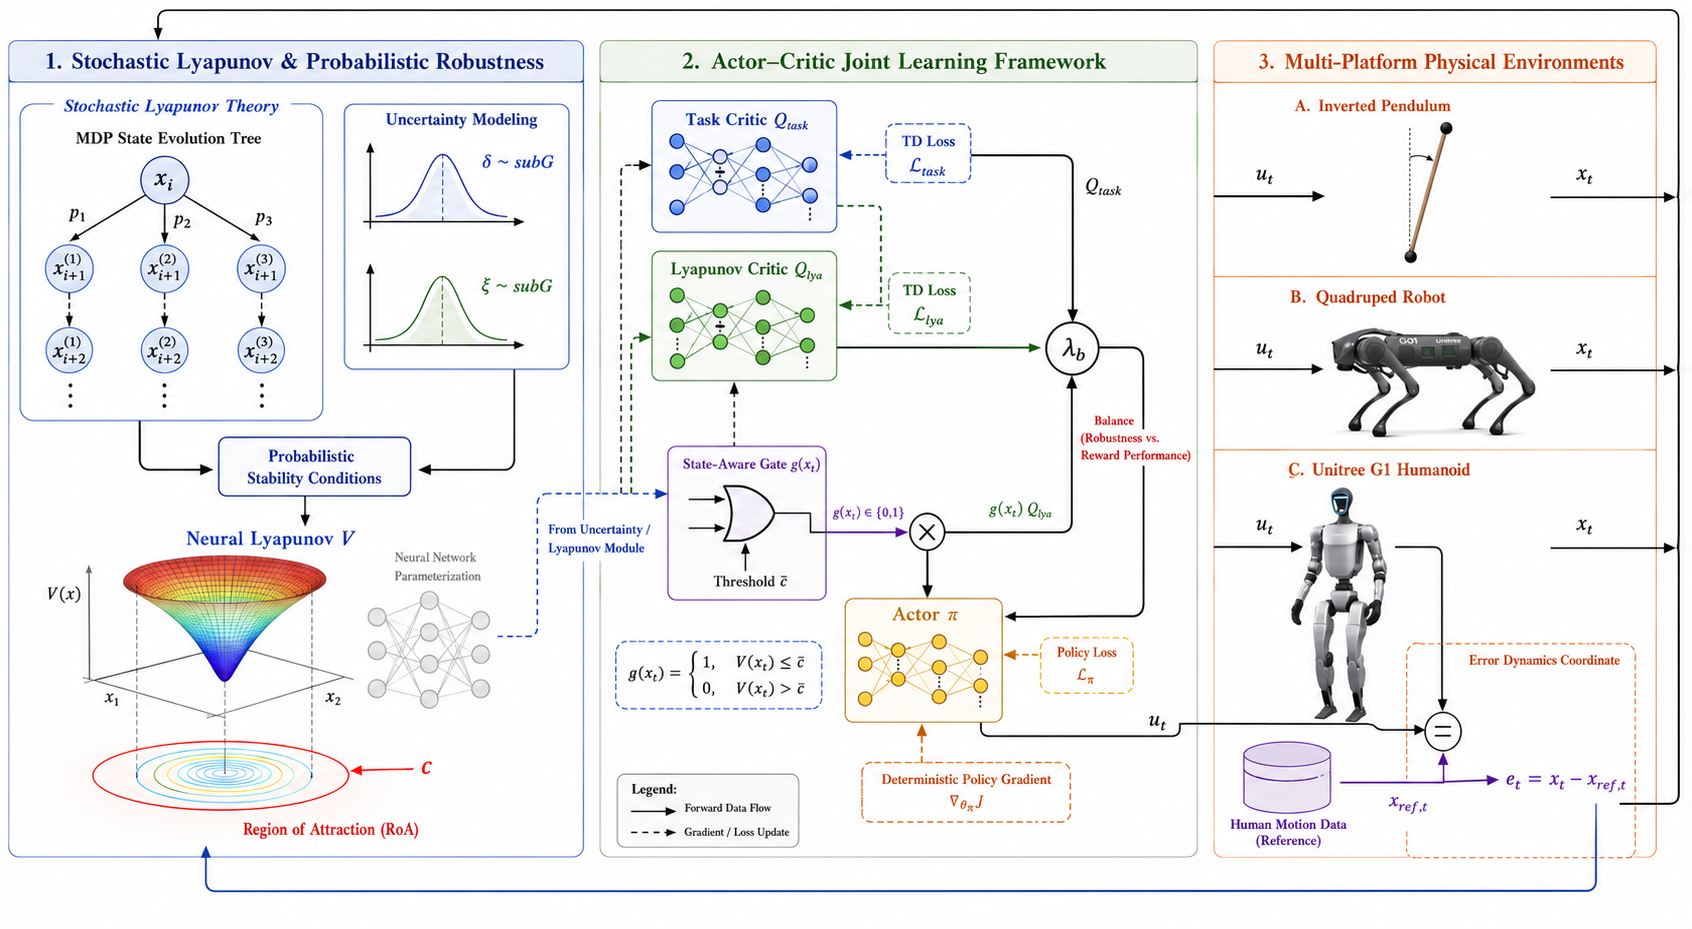
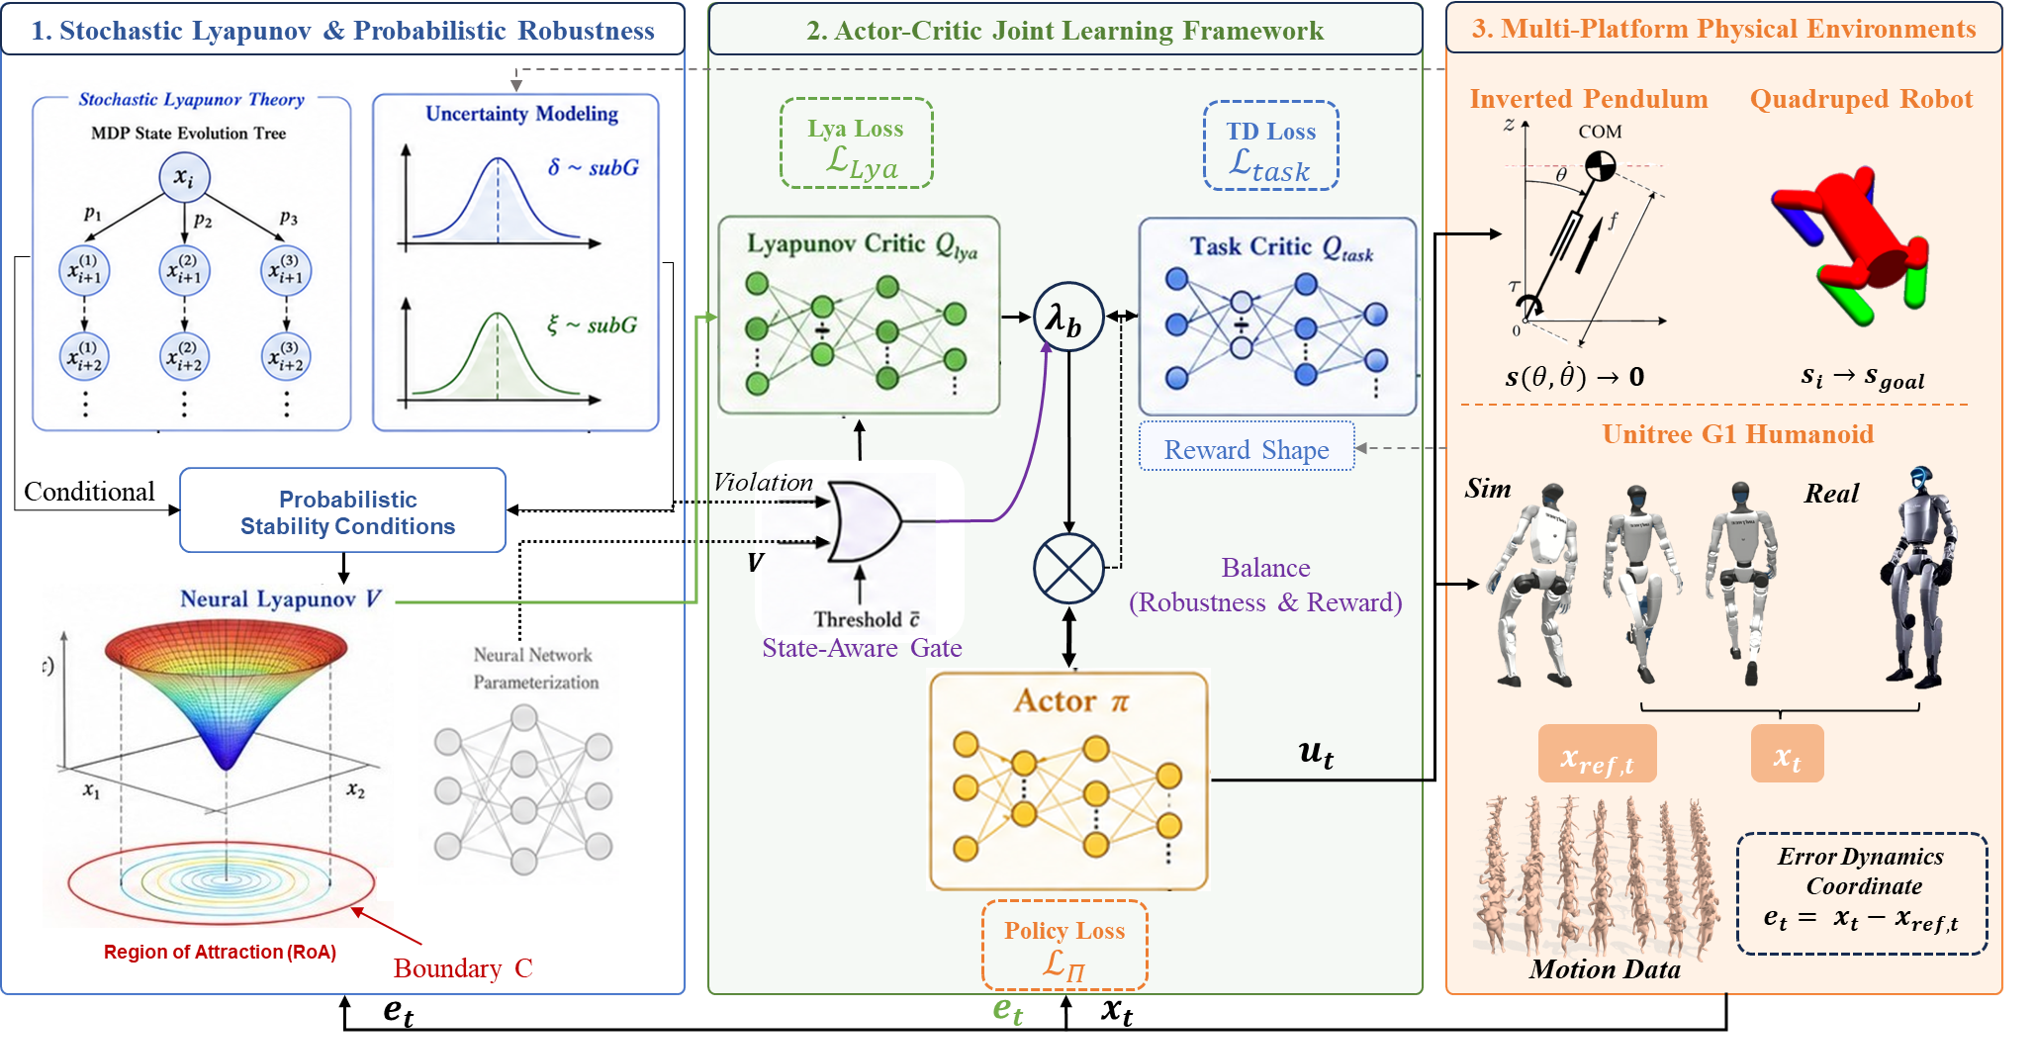
Update project page method section and framework figure.

Changed region(s): [[0.0, 0.0, 1.0, 0.9989]]

diff --git a/docs/index.html b/docs/index.html
@@ -66,21 +66,23 @@
 
     <section id="method">
       <h2>Method</h2>
-      <p>
-        The proposed pipeline jointly trains a task-oriented policy and a neural Lyapunov certificate
-        (Twin Control Lyapunov Function, TCLF) inside an Actor&ndash;Critic RL loop.
-        A <strong>state-aware gating mechanism</strong> balances task rewards and Lyapunov robustness penalties,
-        enlarging the certified region of attraction while preserving locomotion tracking performance.
-      </p>
-      <ul>
-        <li>Probabilistic stability conditions under sub-Gaussian uncertainty modeling</li>
-        <li>Joint optimization of policy, value critic, and Lyapunov / Lyapunov-Q networks</li>
-        <li>Quantitative robustness estimation for unseen disturbance intensities without retraining</li>
-        <li>Validated from low-dimensional pendulum to high-dimensional bipedal locomotion (sim + hardware)</li>
-      </ul>
+      <div class="notice">
+        <p>
+          The proposed pipeline jointly trains a task-oriented policy and a neural Lyapunov certificate
+          (Twin Control Lyapunov Function, TCLF) inside an Actor&ndash;Critic RL loop.
+          A <strong>state-aware gating mechanism</strong> balances task rewards and Lyapunov robustness penalties,
+          enlarging the certified region of attraction while preserving locomotion tracking performance.
+        </p>
+        <ul>
+          <li>Probabilistic stability conditions under sub-Gaussian uncertainty modeling</li>
+          <li>Joint optimization of policy, value critic, and Lyapunov / Lyapunov-Q networks</li>
+          <li>Quantitative robustness estimation for unseen disturbance intensities without retraining</li>
+          <li>Validated from low-dimensional pendulum to high-dimensional bipedal locomotion (sim + hardware)</li>
+        </ul>
+      </div>
     </section>
 
-    <section id="codebase">
+    <!-- <section id="codebase">
       <h2>Codebase</h2>
       <div class="notice">
         <strong>Fork notice.</strong>
@@ -98,7 +100,7 @@
         Baselines include plain PPO (<code>Unitree-G1-Flat</code>) and AMP (<code>Unitree-G1-AMP-Flat</code>).
         See the <a href="https://github.com/detachedcat/robust-NLFRL/blob/main/README.md">README</a> for install and training commands.
       </p>
-    </section>
+    </section> -->
 
     <section id="bibtex">
       <h2>BibTeX</h2>